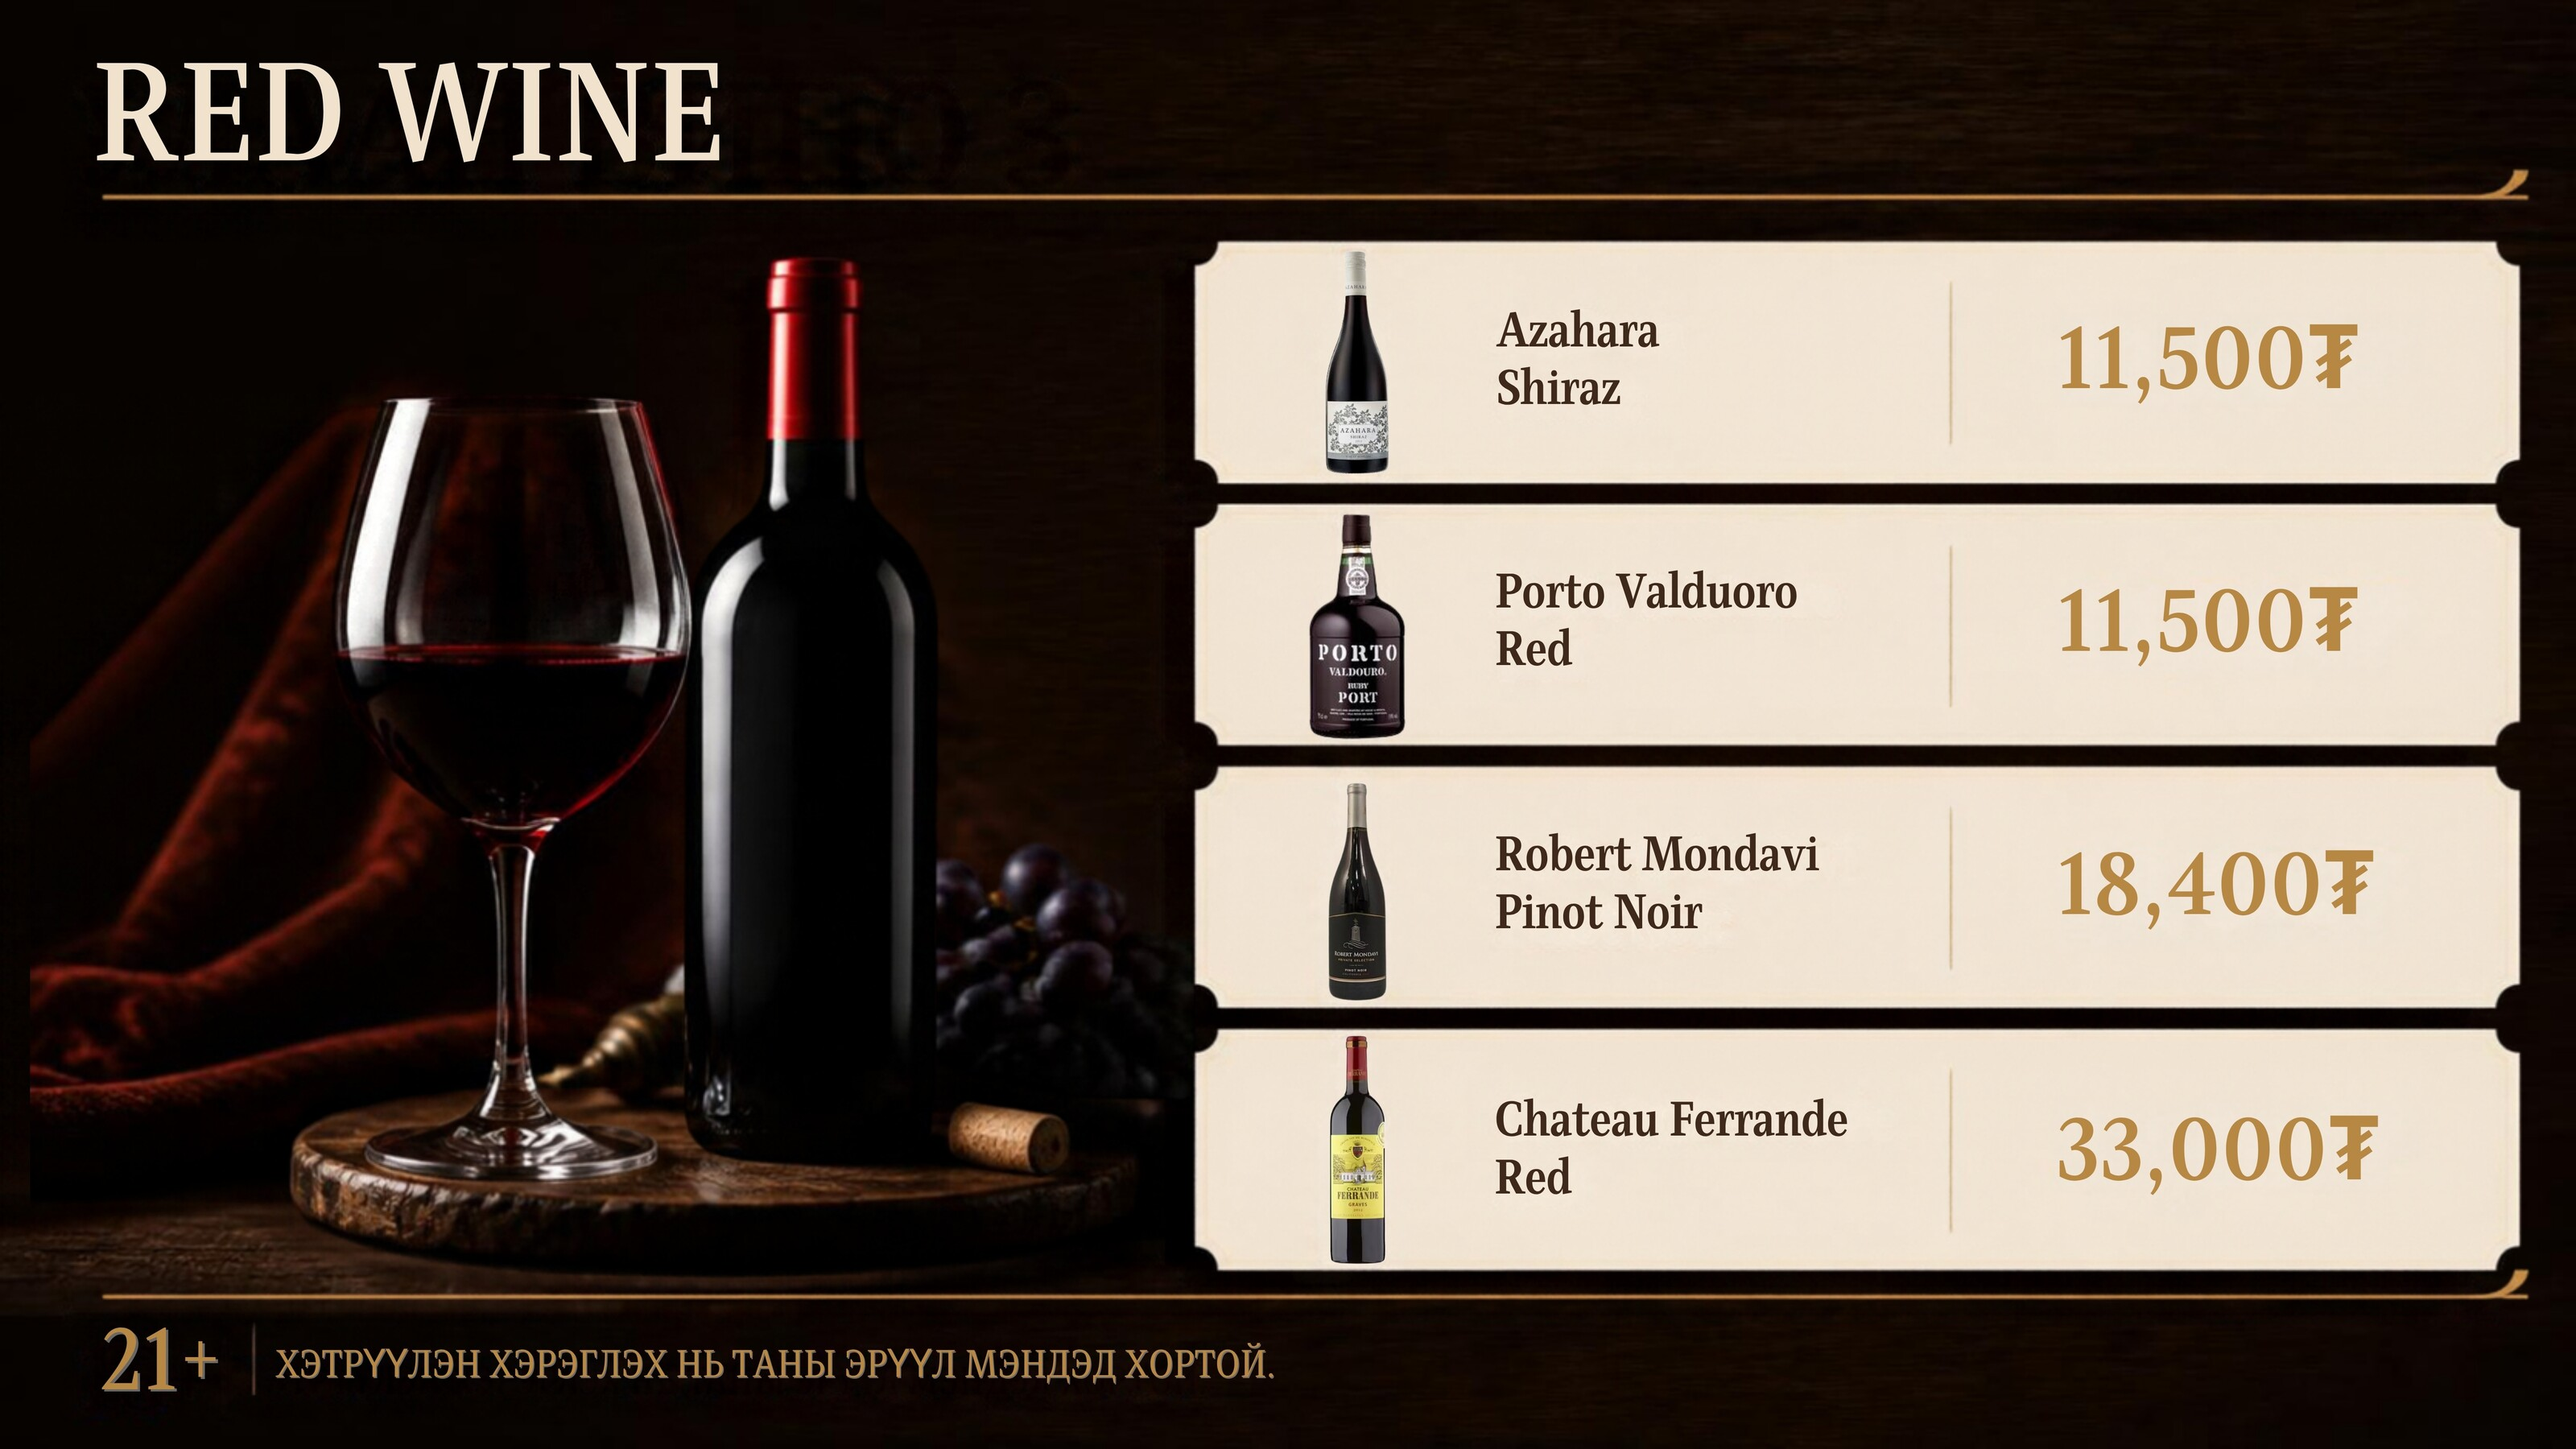
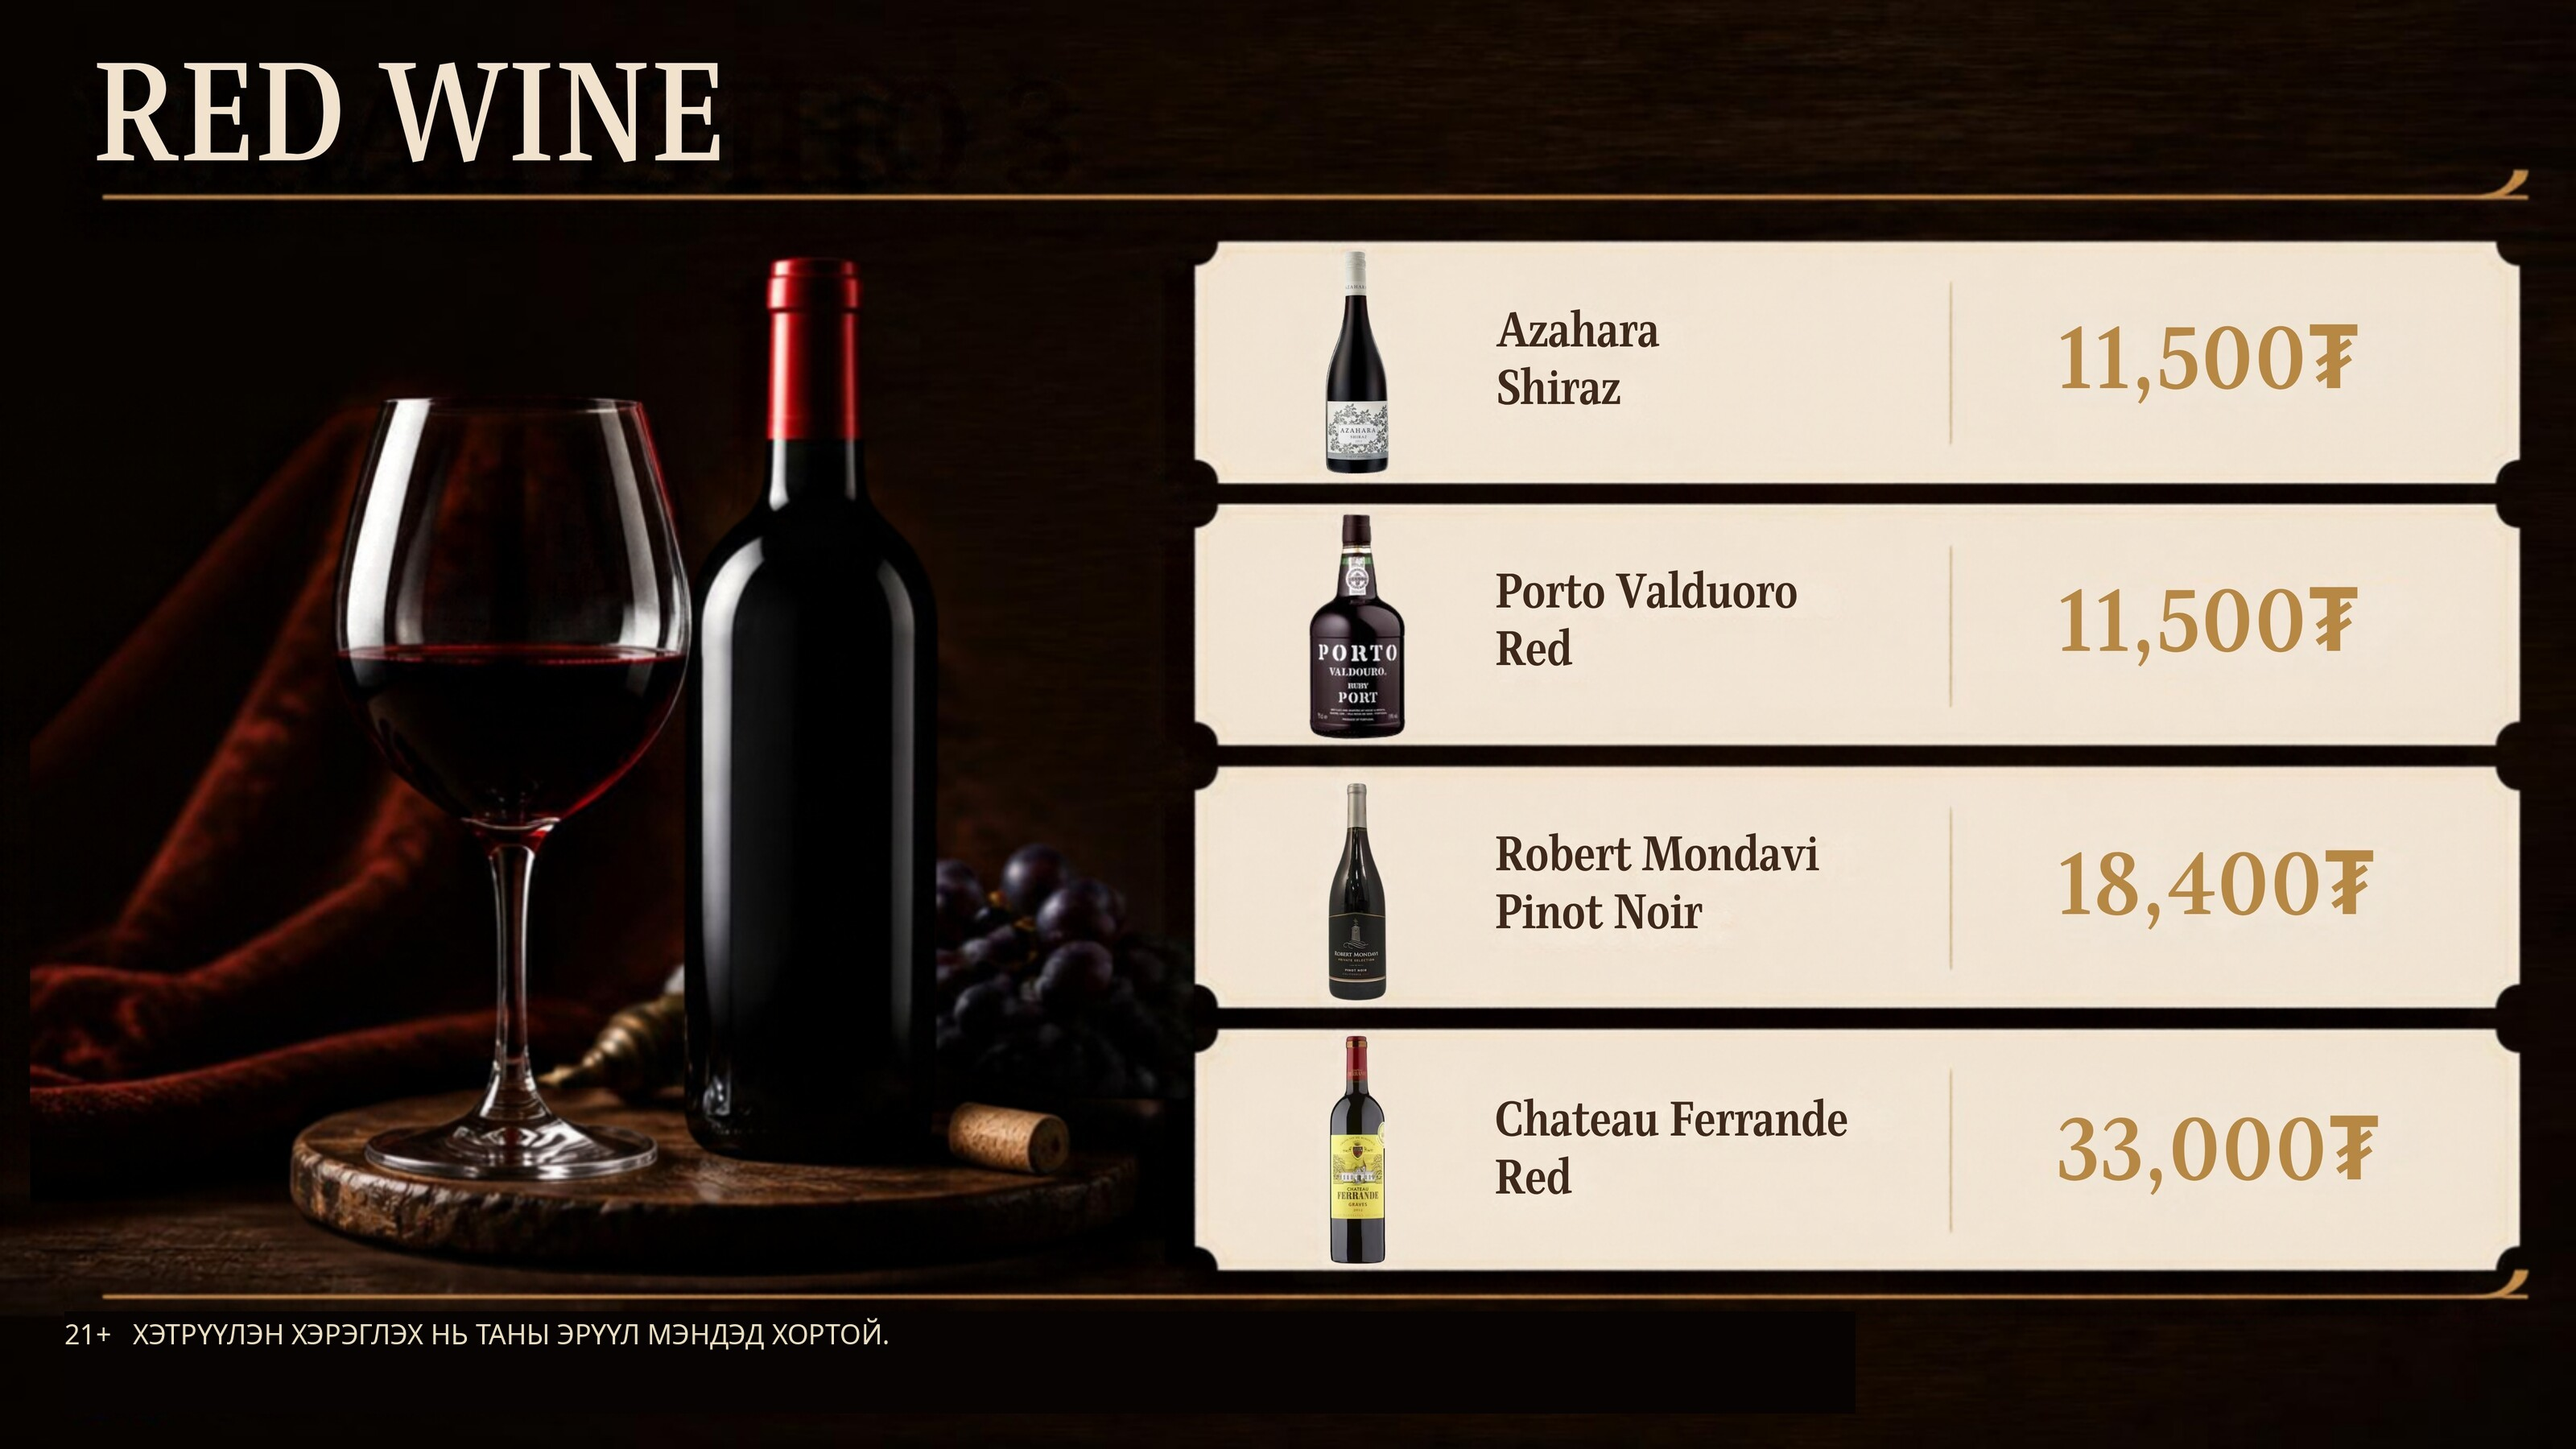
Correct the health warning spelling on menu boards

Changed region(s): [[0.0312, 0.9022, 0.5, 0.9644]]

diff --git a/menu.js b/menu.js
@@ -37,7 +37,7 @@ let drag = null;
 
 function pageHtml(board, extra) {
   const hits = board.spots.map(s => `<button class="hit" style="left:${s.l}%;top:${s.t}%;width:${s.w}%;height:${s.h}%" data-id="${s.id}" aria-label="${wines[s.id].name}"></button>`).join("");
-  return `<div class="page ${extra || ""}">${hits}<img src="${board.img}?v=15" alt=""><div class="back"></div><div class="shade"></div></div>`;
+  return `<div class="page ${extra || ""}">${hits}<img src="${board.img}?v=16" alt=""><div class="back"></div><div class="shade"></div></div>`;
 }
 
 function render(incoming) {
